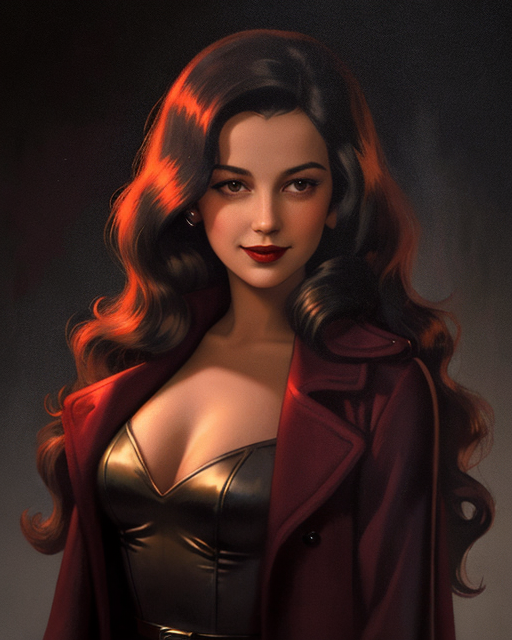
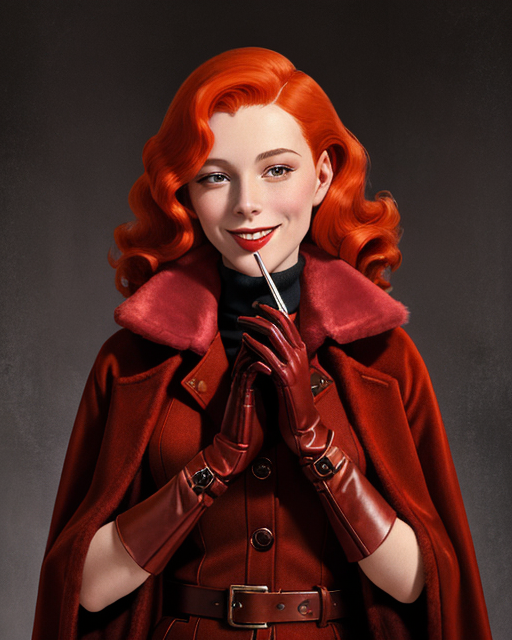
Re-rendered portraits and facades from the review, and the review's answer

diff --git a/src/game/cases/salt.ts b/src/game/cases/salt.ts
@@ -379,7 +379,7 @@ const def: CaseDef = {
       spentLine: 'I have crates to watch. I’m watching them.',
       opinions: { wren: 'Miss Wren signs at the door and never comes inside. I’ve offered her a lamp. She’s never taken it.', salvi: 'Salvi’s name is on the manifest, on the seals, and on the envelope he leaves for me. I haven’t opened it.', ledoux: 'Ledoux breaks a customs seal the way other men open a bottle of beer.' },
       topics: [
-        { id: 'night', q: 'Which crate was opened?', a: 'Bay four, seal number 4471. One twist. Ledoux did it at nine in the evening, on Salvi’s orders, before he sailed. He took out a small case and carried it to the shipping office.' },
+        { id: 'night', q: 'Which crate was opened?', a: 'Bay four, seal number 2216. One twist. Ledoux did it at nine in the evening, on Salvi’s orders, before he sailed. He took out a small case and carried it to the shipping office.' },
         { id: 'case', q: 'What was in the case?', a: 'I don’t open crates. I know what a crate of morphine ampoules sounds like when it’s set down, and that one sounded like it. It went to Salvi. Whatever else happened tonight, that happened first.', after: 'night', cost: 1, effect: { type: 'lead', at: 'shipping' } },
         { id: 'bask', q: 'Bask came to the bond store.', a: 'On the 9th. He asked me what was in the crates. I said I was only a watchman. He said: then watch. I’ve been watching ever since.' },
       ] },
@@ -620,7 +620,7 @@ const def: CaseDef = {
         { person: 'penrose', line: 'Whose hair?', reply: 'Ambrose Rask’s. She showed me once. She came to the chapel at half past four and chalked Bask’s name and I let her. Whoever told her he was drowned told her before the tide did. Ask at the ice house who was walking toward the point at four.',
           effect: { type: 'lead', at: 'icehouse' } },
       ] },
-    { id: 'obj:salt:seal', at: 'bondstore', name: 'A customs seal, broken, no. 4471', drawing: 'button',
+    { id: 'obj:salt:seal', at: 'bondstore', name: 'A customs seal, broken, no. 2216', drawing: 'button',
       desc: 'From bay four. Broken in one twist. Whoever did it had done it before.',
       spoken: 'A customs seal from bay four, broken in one twist.',
       unlocks: [
@@ -658,7 +658,7 @@ const def: CaseDef = {
     ],
     timeline: [
       { time: '8:00 PM', text: 'Okafor closes the chandlery. Forty feet of line and a needle are sold to a man in an oilskin, and signed for in Okafor’s own hand.' },
-      { time: '9:00 PM', text: 'Seal 4471 is broken in the bond store. A small case goes to the shipping office.' },
+      { time: '9:00 PM', text: 'Seal 2216 is broken in the bond store. A small case goes to the shipping office.' },
       { time: '10:00 PM', text: 'A hundredweight of rock salt leaves the salt works on a man’s shoulder. Bask tells Dr. Fenn about a meeting at the pier.' },
       { time: '11:00 PM', text: 'The Marie-Louise clears out. No cargo declared. She anchors in the Narrows with no lights.' },
       { time: '11:15 PM', text: 'A rowing boat goes from the trawler to Pier Nine, one man aboard. Bask leaves the Brine with a note in his hand.' },

diff --git a/REVIEW.md b/REVIEW.md
@@ -1,0 +1,313 @@
+# Review — The Ashgrave Files
+
+Reviewed 2026-09-19 on branch `claude/browser-detective-game-gwbcny`, commit `924e930`
+plus the untracked Salt facades. Read all three case files, the rules engine, the
+exhibit corpus, the portrait and facade manifests, and played the opening of
+*Salt and Silence* in the browser.
+
+> **Contains spoilers for all three cases.** Every finding below names culprits
+> and secrets, because that is what had to be checked.
+
+## Score
+
+| Area | Score | One line |
+|---|---|---|
+| Story — plot logic per case | 6.5 / 10 | Bell is tight, Orchid is sound, Salt gives itself away and its night does not add up |
+| Characters — writing and casting | 7 / 10 | The dialogue is the best thing in the game; the dealt traits are stapled onto people they do not fit |
+| Visuals — portraits, facades, UI | 7 / 10 | Handsome, consistent noir look; text artifacts, wrong-costume portraits, and a whole city without paintings |
+| Artifacts — documents and objects | 5.5 / 10 | The authored papers are excellent; the deduction exhibits are the wrong city's paperwork in two cases out of three |
+| Connectedness — does it all hang together | 6 / 10 | Mechanically airtight (tests pass, every id resolves); narratively the three layers drift apart |
+| **Overall** | **6.5 / 10** | |
+
+"Useless stuff" is fine and is not counted against anything. Only things that
+contradict each other, or that undercut the deduction, are scored.
+
+What is genuinely good and should not be touched: the plain-sentence dialogue,
+the witnesses' free "what was the victim like" questions, the `Where you looked /
+What looked off / What turned up` search card, the authored documents with
+"How it came to hand", the notebook that only crosses off from your own marks,
+the board, the room audio, and the engine (pure reducer, seeded, byte-identical
+replays, 19 green tests).
+
+---
+
+## Findings, ranked
+
+### 1. The deduction exhibits are Orchid's paperwork in every city — high
+
+`src/game/exhibits.ts` holds the 24 clue documents (build/hair/hand/mark/vice/
+scent/shoe). Every one is written for *The Ash and the Orchid*: Mercy Hospital
+letterhead, Ashgrave Bay Police, a female victim of twenty-six, a hotel suite,
+a pillow, a lift attendant, "hotel stock: Turkish cigarettes only".
+
+Seen on screen in *Salt and Silence* (victim Aurel Bask, a man in his fifties,
+Harbour Morgue): searching the Quay Tram Stop turns up **"MERCY HOSPITAL ·
+LABORATORY — Trace examination — She marked whoever she fought. Among the fresh
+tissue under her nails…"** found "behind a picture that hangs an inch off
+straight". In *The Ninth Bell* the victim is a forty-four-year-old nun at the
+foot of a tower and the exhibits will still say she was twenty-six and died on
+silk.
+
+These are the core finds — the ones the notebook is built on — so this is the
+single biggest break in the "documents as evidence" premise.
+
+**Recommendation.** Make the clue corpus per case. Cheapest route: keep the
+`clue:<trait>:<value>` ids but let `CaseDef` carry an optional
+`exhibits: Partial<Record<string, ExhibitDef>>` override, and have `exhibitById`
+look there first. Salt needs its own 24 (harbour morgue, coastguard log,
+chandler's sales book, a bootprint in rock salt); Bell needs its own (the tower
+stairs, the cut rope, the Observatory margin drawing). The `missingExhibits()`
+test already exists — extend it to assert every case covers every
+trait value.
+
+### 2. Salt names its killer in the dossier — high
+
+`src/game/cases/salt.ts:209` — Ledoux's blurb, visible in the Suspects tab from
+turn one: *"Big man, scar across his left thumb."* Then twelve witnesses and
+suspects describe the night's mystery man as "a big man with a scar across his
+thumb" (Teague, Vetch, Kite, Harrow, Mott, Lundy, Rook, Cully, Fry, Ives,
+Okafor, Tilda). The culprit is fixed (`culprit: 'ledoux'`), so the case reads
+as solved by the end of the first conversation, regardless of what the trait
+table says.
+
+Orchid and Bell do not do this. Bell's gardener blurb ("dug grave forty-four;
+takes flowers to Marrow House every Sunday") is the right kind of tell —
+suggestive, not conclusive.
+
+**Recommendation.** Take the scar out of Ledoux's blurb and bio. Give the
+"big man with the scar" to two or three suspects (Okafor is already written as
+having a cut hand; Garrow's hands could carry a winch scar from '41) so the
+description narrows the field without closing it. Or make the tell a thing only
+one witness saw clearly and others half-saw.
+
+### 3. The dealt traits contradict the written people — high
+
+Traits are dealt at random (`gen.ts:dealTraits`) with no reference to the
+suspect definitions. So:
+
+- Ledoux, "big man" in his bio, was dealt **Tall / Red**; Okafor, fifty-eight
+  and sleepless, **Broad / Red**; Etta Wren, thirty-nine, **Grey**.
+- Dr. Fenn — Hamburg surgeon, grieving lover — came up **Vice: Cards**, and the
+  tram conductor duly said "Fenn shuffles a deck through the whole
+  conversation", grafted onto her authored line about the doctor riding to the
+  pier with her bag.
+- The `mark: scar` tell is "a white scar running from ear to jaw"; the story's
+  scar is across a thumb.
+- Portraits are painted (fixed hair, fixed build), so the notebook's "Hair:
+  Grey" sits next to a portrait with dark hair. The old paper-doll portraits
+  filled in from traits; the paintings cannot.
+
+**Recommendation.** Two options, pick one:
+
+- *Pin the public traits.* Add `traits?: Partial<Record<TraitId, string>>` to
+  `SuspectDef`, author `build` and `hair` (the two public traits) to match each
+  portrait and bio, and let the dealer fill in only the hidden ones. Uniqueness
+  is still guaranteed by the retry loop.
+- *Or drop build/hair from the public set* and make the public traits ones a
+  painting cannot contradict (vice, scent, handedness).
+
+Either way, rewrite each `tell` per case or make the tells trait-only ("a scar,
+old and white") rather than location-specific ("ear to jaw").
+
+### 4. Salt's night does not reconcile — medium
+
+Timeline reconstructed from the witness and suspect lines (all witnesses are
+documented as truthful):
+
+- Bask's watch stops at **11:40** — he is in the water. The murder weapon
+  (Okafor's rigging knife) is redeemed at Lundy's at **midnight**, twenty
+  minutes later.
+- The `truth` says Ledoux rowed in **alone** and there was never a second man.
+  Pell (his own deckhand, `salt.ts:286,288`) says the skipper put two men
+  ashore in the rowing boat and waited two hours on deck, smoking. Sable and
+  Garrow both log two out, one back. Ledoux's own topic says two men got off.
+  The truth contradicts every witness.
+- The dinghy comes back at 1:30 (Sable, Garrow), or 2:30 (Sable's lead line,
+  the coastguard fix). Pick one.
+- The big man is at the salt works at 10, the Brine, Lundy's, the café, the
+  Customs House, the printers and the last tram at midnight, the hall and the
+  bond store at 1, back in the dinghy at 1:30, the baths at 2, the ice house
+  for an hour around 3, Tilda's gate at 3, the chapel, the infirmary and the
+  mission at 4, the morgue at 6 — while the Marie-Louise, with him at the
+  wheel, ties up at 3:05 and wirelesses ALL DONE at 3:12.
+- Hollis is at the union hall until midnight (Brack), in the Brine from ten
+  till one (Teague, Rook, the flask), and in bed thirty-one at the mission all
+  night (Fry, `salt.ts:481`) — and Fry's own topic (`:483`) says bed thirty-one
+  was the big man.
+- "The old salt stairs under the point" is where the story says the usual place
+  is; there is no such location on the map, and the mechanical lead will name
+  a random building instead (see 6).
+
+Orchid has a milder version: Lillian's call is at 1:52, the Jade Room phone
+rings at 2:00 (Lantern Quarter, far east), and the house detective finds her at
+2:09 in the Gilded (the Heights, far west). Nine minutes to cross the city and
+kill her. The door is on the chain from inside and the truth never says how
+Brandt left an eleventh-floor suite. Brandt is at Rosie's, the Jade Room and
+the bonded warehouse all "at one".
+
+Bell: car seven leaves the depot at 12:02 carrying Beatrix, who was under the
+tower at 12:00 counting the bells.
+
+**Recommendation.** Write the true timeline first for each case (one column,
+minute by minute, one row per named person), then write the witnesses *from*
+it. Give the big man three sightings, not fifteen — each witness gets the
+victim's last day, one thing about a suspect they know, and one lead; only
+some of those leads should be the killer.
+
+### 5. Salt's button clears the killer — medium
+
+`salt.ts:604` — showing the brass button to Ledoux has `effect: { type: 'clear',
+suspectId: 'ledoux' }`. The engine guards it (`state.ts:721`: the culprit
+cannot be cleared; "tells it well. It does not hold" fires and a fact drops
+instead), so it is not a bug — but that line is a bright neon arrow. The moment
+the table sees "It does not hold" on Ledoux and "is cleared" on anyone else,
+the case is over. `salt.ts:610` — Kite's reply to the watch is entirely about
+Fenn's movements, but its effect is `culpritTrait`; the text and the effect
+point at different people.
+
+**Recommendation.** Give the culprit's object unlocks `suspectTrait` or `lead`,
+never `clear`. Make Kite's watch reply say something about the killer.
+
+### 6. Authored leads and mechanical leads disagree — medium
+
+A witness's `leadLine` is a sentence ending in "toward" / "the usual place is",
+completed by whichever location the RNG picks from the unfound evidence
+(`state.ts:567`). The authored paid topic on the same witness names a specific
+place: Harrow says "He ran toward the ice house" and the game then says "It
+points at Harbour Savings." Sparks: "In this harbour, the usual place is
+Longshoremen's Hall."
+
+**Recommendation.** Either author the lead target (`effect: { type: 'lead', at:
+'icehouse' }`, falling back to random only if that location is already
+searched), or write leadLines that do not claim to know the place ("He went
+somewhere in a hurry. Try").
+
+### 7. Portrait casting and artifacts — medium
+
+Generated from `people/prompts.json`; the prompts describe hats and coats but
+not the person, so the model defaulted:
+
+- **Bernard Okafor**, **Femi Oyelaran** (ex-customs officer from Lagos) and
+  **"Ruby" Okonkwo** are all painted white.
+- **Fr. Ambrose Kell** has no collar; **Canon Aldritch** is a man smoking a
+  cigarette in a lounge suit. **Matron Crake** (asylum matron) and **Beatrix
+  Ayre** (asylum patient) are both painted as nuns; the only actual nun in the
+  case is the dead one.
+- **Ledoux** has "NAAALTY 0145" burned into his coat; **Silas Crane** has
+  "POARRAVO" across his chest. Both are on screen in the Suspects tab and the
+  seat picker.
+- Vera Lang is a pin-up in a red dress with cleavage; every other portrait is a
+  buttoned coat in a grey room. She looks pasted in from a different game.
+
+**Recommendation.** Add ethnicity, age and role dress to the prompt for every
+person whose name or bio implies it; re-render the seven above; add "no text,
+no lettering, no logos" to the negative prompt and reject any render with
+letters in it. `public/dev/portraits.html` is the right place to eyeball a
+re-render.
+
+### 8. Facades: Bell has none, and some Salt ones do not say what the place is — medium
+
+- *The Ninth Bell* has 0/30 painted facades (Orchid 30/30, Salt 30/30 with
+  the new files). It falls back to the parametric drawings, which are fine but
+  visibly a different game next to the other two.
+- Salt: the Brine & Bell is a neon **JAZZ** club (it is a sawdust dockers'
+  pub); the Customs House, the Harbourmaster's Office and the Cannery are
+  generic rainy streets with no readable landmark; Grieve Point Light and the
+  Coastguard Tower are both lighthouses on the same map. Framing flips between
+  interiors (bank colonnade, hospital corridor, baths) and exteriors.
+- The briefing card (`Take the case` screen) is translucent over the zoomed
+  map, so the typed briefing sits on top of building paintings and node labels
+  and is hard to read. A solid or darker card behind the text would fix it.
+
+**Recommendation.** Render Bell's 30 (prompts already in
+`buildings/prompts.json` pipeline). Re-prompt the six Salt ones above with the
+landmark in the prompt ("customs house with a clock and a flag", "trawler
+berths with nets"). Decide interior or exterior and stick to it per map.
+
+### 9. The three cases share a template too visibly — low
+
+Orchid and Salt both have: customs seal **4471** broken tonight, a pawn ticket
+redeemed at midnight by a hand that did not pledge it, a big man in a wet
+coat, a boat with no lights landing under the lighthouse, a last tram with
+eleven passengers and one who walked back, a ferry count one short, a
+lighthouse keeper who logs and crosses out. A table playing the second case
+will recognise the beats and skip the "useless stuff" — which is the part you
+want them wasting time on.
+
+**Recommendation.** Keep the shared universe (St. Ordell's, Marrow House and
+the Canon threading from Orchid to Bell is a nice touch) but give each city
+its own furniture. Salt's are easy: replace the pawn beat with the chandler's
+sales book, the ferry with the tram to the salt works, the wet-coat man with a
+man who smells of the ice house.
+
+### 10. Small things — low
+
+- `README.md` and the header of `gen.ts` say the culprit is re-rolled every
+  playthrough; `CaseDef.culprit` is fixed and the comment on the type says so.
+  Update the docs; once a table knows it is fixed, replay value is the trait
+  table, not the answer.
+- Beatrix is named `'Sister Beatrix Ayre'` — a patient, not a nun; the
+  "Sister" reads as a title and the portrait cements it. Call her Beatrix Ayre.
+- Every case has exactly 10 of 30 locations without a witness and 12–14 with
+  an authored document; the empties cluster (Salt: pier9, station, shipping,
+  bank, light, raskhouse, drydock, ropewalk, cannery, slip). Pier Nine — the
+  crime scene — has nobody to ask.
+- At Rookie/Detective two or three suspects are dropped from the roster, but
+  the remaining suspects' `opinions` and topics still name them ("Ledoux was
+  there too", "ask Aldous"). Harmless, occasionally confusing.
+- `buildings/manifest.json` has a `people` key duplicating `ids` — copy-paste
+  from the people manifest.
+- HANDOFF.md §3 still describes the paper-doll portrait system as current.
+
+---
+
+## Suggested order of work
+
+1. Per-case clue exhibits (finding 1) — one file per case, ~24 documents each.
+   This is the most words, and the biggest win.
+2. Pin public traits to the paintings (finding 3) — a small engine change, then
+   audit the tells.
+3. Fix Salt's giveaway and its timeline (findings 2, 4, 5, 6) — rewrite in place.
+4. Re-render the seven portraits and six facades; render Bell's thirty
+   (findings 7, 8).
+5. Docs and small things (finding 10).
+
+After 1–3 the story, the characters and the artifacts would agree with each
+other, which is the thing the score is really measuring. I would expect it to
+land around 8.
+
+---
+
+## Addressed — 2026-09-19, later the same day
+
+1. **Per-case clue exhibits** — done. `src/game/cases/salt-clues.ts` and
+   `bell-clues.ts` (24 each: harbour morgue, pier ladder, spilled salt; tower
+   rungs, cut rope, rope chalk). `CaseDef.clues`, `exhibitById(id, caseId)`,
+   `missingExhibits()` checks every case covers every trait value.
+2. **Salt names its killer** — done. Scar gone from Ledoux's blurb and bio; the
+   night's tells are an oilskin with the hood up and hands cut on canvas, and
+   Okafor has cut hands too. Sightings cut to the ones the timeline supports.
+3. **Dealt traits vs written people** — done. `SuspectDef.traits` pins build
+   and hair for all 24 suspects to their portraits; the dealer honours pins;
+   the scar tell is trait-only. Test added.
+4. **Salt's night** — rewritten from a single true timeline (in `story.
+   timeline`): one man rows to Pier Nine at 11:15 and back at 11:50, knife
+   redeemed the 10th, Hollis pulls the notice at 12:05, Wren takes the
+   notebook at 1:00, body found at low water 4:50, doctor signs at 5:40/6:20.
+   Each case now has its own `startHour` (Salt 8 AM, Bell 7 AM). Orchid's
+   call moved to 12:52 with the last car up at one and the fire escape; Bell's
+   car seven leaves at 11:45.
+5. **Button clears the killer** — done; both unlocks are `suspectTrait`.
+   Kite's watch reply is about the killer.
+6. **Authored vs mechanical leads** — done. `lead` effects take `at`; every
+   Salt lead names its place; lead lines no longer claim a place.
+7. **Portraits** — re-rendered with casting notes (ethnicity, role dress, hair
+   colour, no-text negatives): Crane, Kell, Vera, Ruby, Okafor, Tilda, Fenn,
+   Ledoux, Oyelaran, Canon, Matron, Blake, Fay, Beatrix; plus Sam Cotter, the
+   fisherman now standing on Pier Nine.
+8. **Facades** — Bell's 30 rendered; ten Salt facades re-prompted with their
+   landmark. Briefing cards sit on a solid card.
+9. **Shared template** — Salt's seal is 2216, the ferry count is a tide table,
+   the pawn beat is the night before, the wet-coat man is an oilskin.
+10. README, `gen.ts` header and HANDOFF updated; Beatrix Ayre is no longer a
+    Sister; the buildings manifest carries only `ids`.
